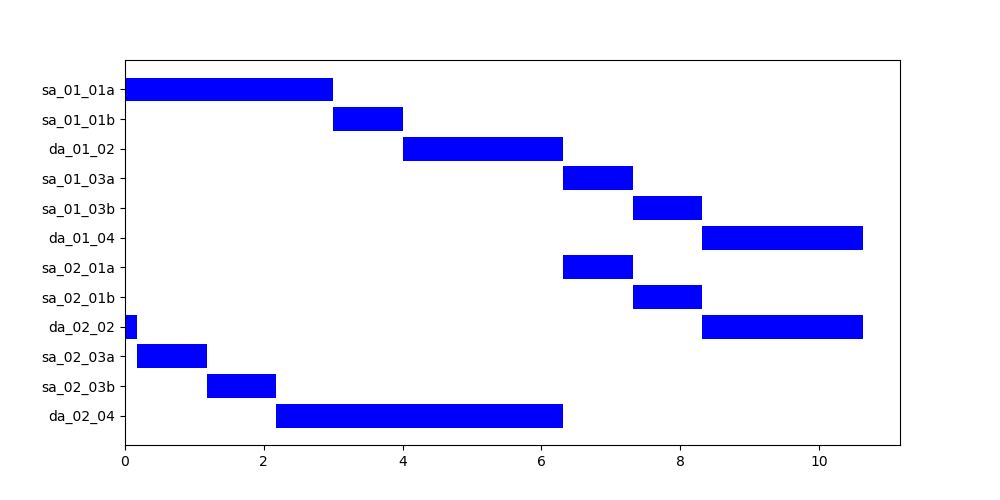
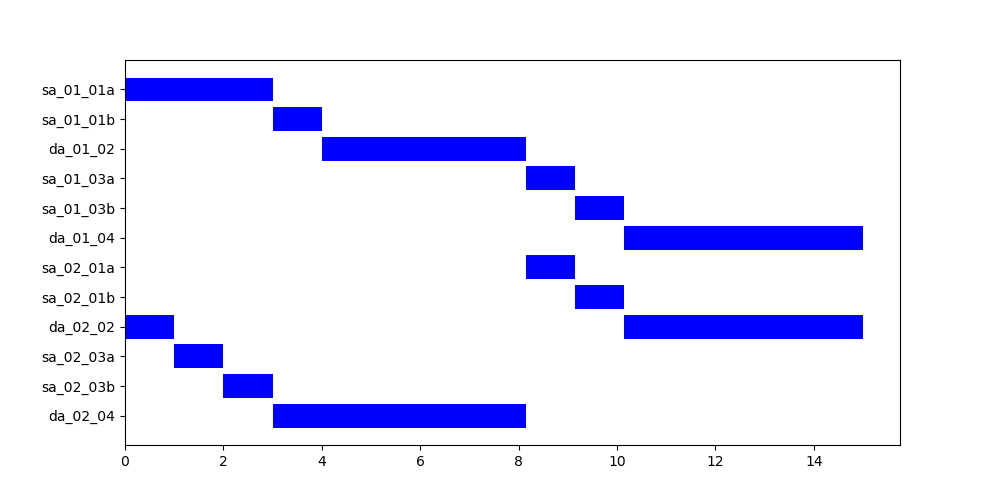
Use constant cycle time.

diff --git a/ilp/model.py b/ilp/model.py
@@ -35,8 +35,7 @@ class Model:
         self.movement_energy_nn = movement_energy_nn
         self.movement_duration_nn = movement_duration_nn
         self.model = g.Model()
-        self.input_cycle_time = 0
-        self.result_cycle_time: g.Var = self._add_var(lb=0, vtype=g.GRB.CONTINUOUS, name='result_cycle_time')
+        self.cycle_time = 0
         self.robot_to_activities: Dict[str, List[Activity]] = dict()
         self.activities: Dict[str, Activity] = dict()
         self.time_offsets: List[TimeOffset] = []
@@ -46,10 +45,7 @@ class Model:
         """
         Loads data from given JSON dictionary. If the JSON does not contain required data, throws BadInputFileError.
         """
-        self.input_cycle_time = cell_json['cycle_time']
-        self._add_constr(
-            self.result_cycle_time <= self.input_cycle_time
-        )
+        self.cycle_time = cell_json['cycle_time']
 
         for robot in cell_json.get('robots', []):
             self._process_robot(robot)
@@ -76,14 +72,14 @@ class Model:
         """
         Creates a dictionary with an optimization solution ready to be saved in a JSON file.
         """
+        # TODO - save result energy
         return {
-            'input_cycle_time': self.input_cycle_time,
-            'result_cycle_time': self.result_cycle_time.x,
+            'cycle_time': self.cycle_time,
             'robots': [
                 {
                     'id': robot,
                     'activities': [
-                        activity.solution_json_dict(self.result_cycle_time.x)
+                        activity.solution_json_dict(self.cycle_time)
                         for activity in self.robot_to_activities[robot]
                     ]
                 }
@@ -103,15 +99,15 @@ class Model:
         # add first parts of activities
         ax.barh(
             list(map(lambda a: a.id, activities)),
-            list(map(lambda a: a.first_part_duration(self.result_cycle_time.x), activities)),
+            list(map(lambda a: a.first_part_duration(self.cycle_time), activities)),
             left=list(map(lambda _: 0, activities)),
             color='b',
         )
         # add second parts of activities
         ax.barh(
             list(map(lambda a: a.id, activities)),
-            list(map(lambda a: a.second_part_duration(self.result_cycle_time.x), activities)),
-            left=list(map(lambda a: a.cycle_start_time(self.result_cycle_time.x), activities)),
+            list(map(lambda a: a.second_part_duration(self.cycle_time), activities)),
+            left=list(map(lambda a: a.cycle_start_time(self.cycle_time), activities)),
             color='b',
         )
 
@@ -133,7 +129,7 @@ class Model:
 
         # add time constraints
         self._add_constr(
-            g.quicksum(list(map(lambda a: a.duration, activities))) == self.result_cycle_time
+            g.quicksum(list(map(lambda a: a.duration, activities))) == self.cycle_time
         )
         for i in range(len(activities) - 1):
             j = i + 1
@@ -274,13 +270,11 @@ class Model:
 
     def _process_collision(self, collision_json: Dict):
         """
-        Adds 2 quadratic constraints - remove result_cycle_time and use only input_cycle_time to not need them.
-
         If a bug with collisions ever appears (there will be a collision in the Gantt's chart) it might be because of
         cycle-time shift of start_times in model. It can be solved by adding "cycle_start_time" and "is_shifted"
         variables for each activity used in collisions:
-          - 0 <= cycle_start_time <= result_cycle_time
-          - cycle_start_time == start_time - result_cycle_time * is_shifted   => possibly more quadratic constraints
+          - 0 <= cycle_start_time <= cycle_time
+          - cycle_start_time == start_time - cycle_time * is_shifted   => possibly more quadratic constraints
         """
         a_id = collision_json['a_id']
         b_id = collision_json['b_id']
@@ -289,10 +283,10 @@ class Model:
         x = self._add_var(vtype=g.GRB.BINARY, name='x_{}_{}'.format(a_id, b_id))
         # adds collision resolution constraints
         self._add_constr(
-            a.start_time + a.duration <= b.start_time + (1 - x) * self.result_cycle_time
+            a.start_time + a.duration <= b.start_time + (1 - x) * self.cycle_time
         )
         self._add_constr(
-            b.start_time + b.duration <= a.start_time + x * self.result_cycle_time
+            b.start_time + b.duration <= a.start_time + x * self.cycle_time
         )
         # saves collision info
         self.collisions.append((a, b, x))
@@ -302,7 +296,7 @@ class Model:
         activity.duration = self._add_var(name='duration_{}'.format(activity.id))
         activity.energy = self._add_var(name='energy_{}'.format(activity.id))
         self._add_constr(
-            activity.start_time <= 2 * self.result_cycle_time
+            activity.start_time <= 2 * self.cycle_time
         )
 
     def _add_constr(self, constr):

diff --git a/optimize.py b/optimize.py
@@ -5,7 +5,7 @@ from nn.position_nn import PositionNN
 from utils.json import read_json_from_file, save_to_json_file
 
 BASE_PATH = 'D:/Uloziste/Skola/DP/Algorithm/rce-optimizer/_inputs/optimization'
-INPUT = '04'
+INPUT = '03'
 
 input_filename = '{}/robotic_cell_{}.json'.format(BASE_PATH, INPUT)
 output_filename = '{}/robotic_cell_{}_result.json'.format(BASE_PATH, INPUT)
